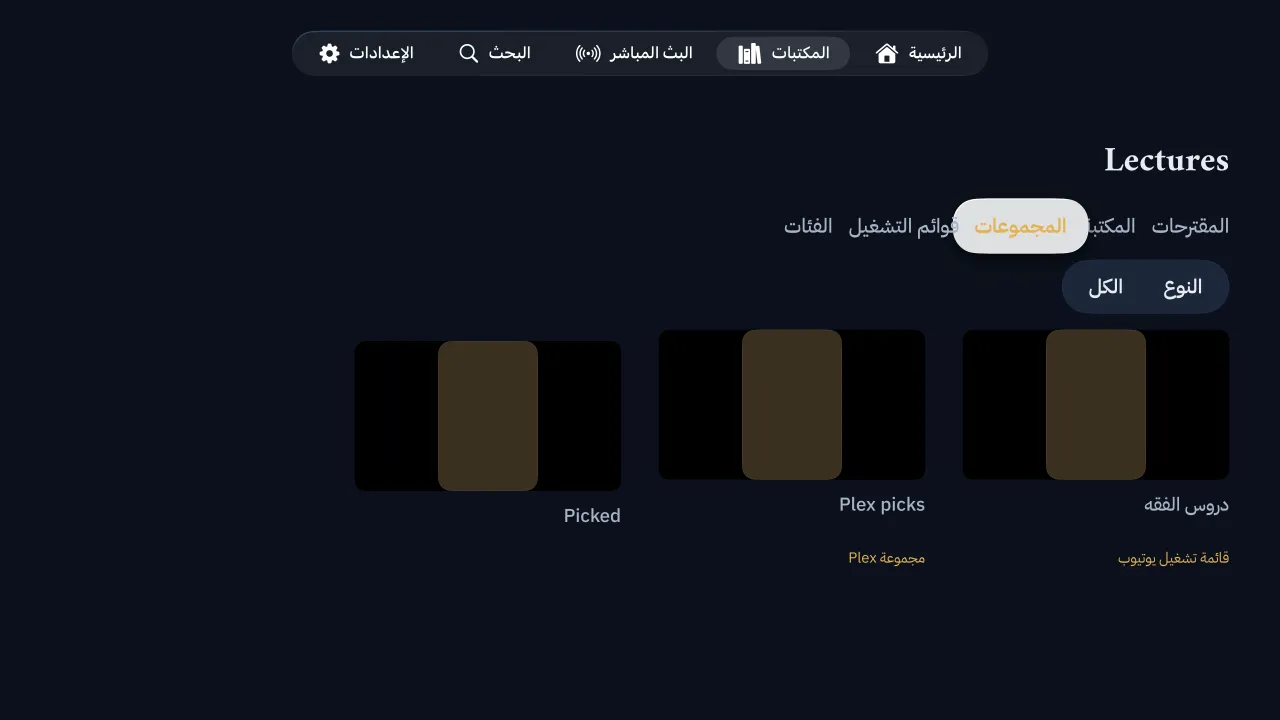
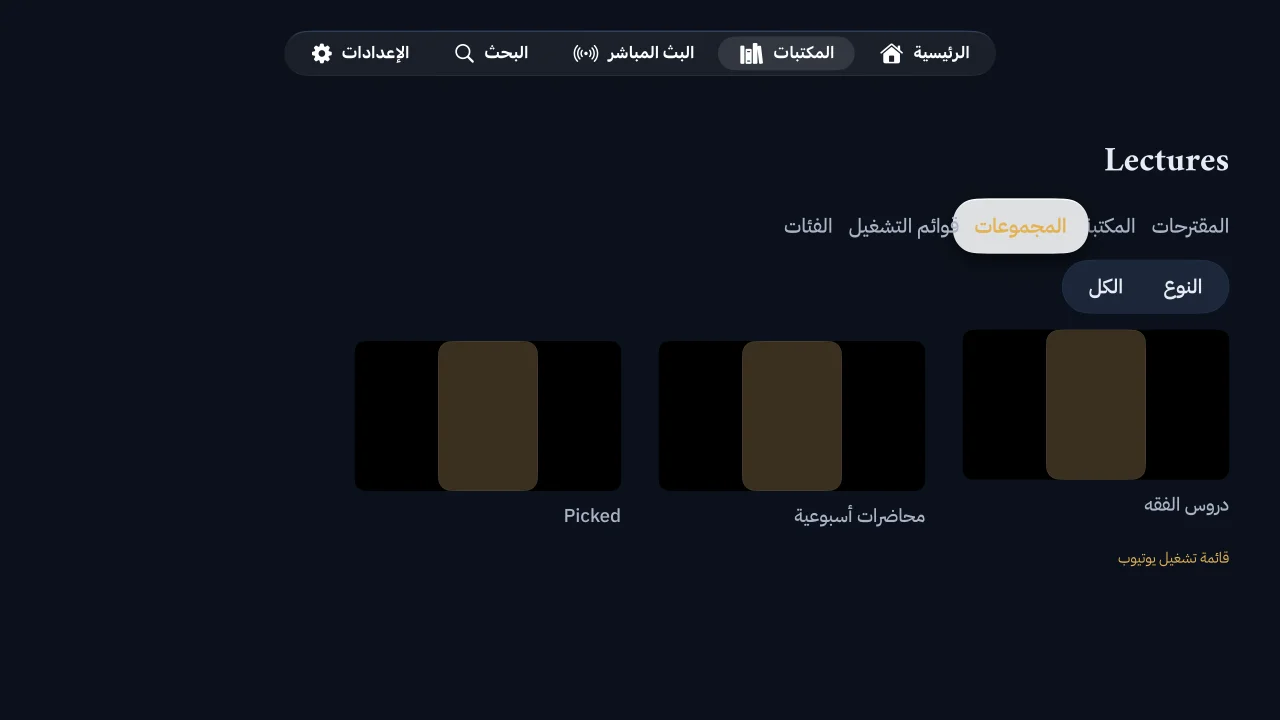
test: badge absence checked without the removed strings; Apple TV collections shot from CI
The Android checks call collectionBadge directly, and the Apple TV UI test
compares the channel card's text with the hand-made card's. The maktaba.dev
Apple TV shot is CI's tv-library-collections-ar from run 45414574687.

diff --git a/apps/tv/android/app/src/test/java/com/hamzalabs/maktaba/tv/LibraryViewTest.kt b/apps/tv/android/app/src/test/java/com/hamzalabs/maktaba/tv/LibraryViewTest.kt
@@ -15,7 +15,9 @@ import com.hamzalabs.maktaba.core.api.AuthTokens
 import com.hamzalabs.maktaba.core.queue.QueueSource
 import com.hamzalabs.maktaba.core.session.TokenStore
 import com.hamzalabs.maktaba.tv.data.TvApi
+import com.hamzalabs.maktaba.tv.data.TvCollection
 import com.hamzalabs.maktaba.tv.ui.screens.library.LibraryTabsScreen
+import com.hamzalabs.maktaba.tv.ui.screens.library.collectionBadge
 import com.hamzalabs.maktaba.tv.ui.screens.library.LocalTvNav
 import com.hamzalabs.maktaba.tv.ui.screens.library.PlaylistScreen
 import com.hamzalabs.maktaba.tv.ui.screens.library.SeriesScreen
@@ -30,7 +32,6 @@ import mockwebserver3.RecordedRequest
 import org.junit.After
 import org.junit.Assert.assertEquals
 import org.junit.Assert.assertNull
-import org.junit.Assert.assertFalse
 import org.junit.Assert.assertTrue
 import org.junit.Before
 import org.junit.Rule
@@ -143,13 +144,26 @@ class LibraryViewTest {
         compose.onNodeWithTag("tab-Collections").performSemanticsAction(SemanticsActions.RequestFocus)
         compose.waitUntil(5_000) { compose.waitForIdle(); shows("Weekly talks") }
         assertTrue("youtube badge", shows("YouTube playlist"))
-        // a channel's collection shows without a source badge, and no kind is From Plex
-        assertFalse("no channel badge", shows("YouTube channel"))
-        assertFalse("no plex badge", shows("Plex collection"))
         compose.onNodeWithTag("collections-kind").performSemanticsAction(SemanticsActions.OnClick)
         // the kind's own read, then its cards
         compose.waitUntil(5_000) { compose.waitForIdle(); urls.any { it.contains("kind=youtube") } }
         compose.waitUntil(5_000) { compose.waitForIdle(); shows("PL Lessons") && !shows("Weekly talks") }
+    }
+
+    @Test
+    fun aChannelsOrAPlexReadCollectionHasNoBadge() {
+        var channel: String? = "unset"
+        var plex: String? = "unset"
+        var playlist: String? = null
+        compose.setContent {
+            channel = collectionBadge(TvCollection("youtube", id = "y2", sourceKind = "youtube_channel"))
+            plex = collectionBadge(TvCollection("curated", id = "p1", sourceKind = "plex"))
+            playlist = collectionBadge(TvCollection("youtube", id = "y1", sourceKind = "youtube_playlist"))
+        }
+        compose.waitForIdle()
+        assertNull(channel)
+        assertNull(plex)
+        assertEquals("YouTube playlist", playlist)
     }
 
     @Test

diff --git a/apps/android/player/src/test/kotlin/com/hamzalabs/maktaba/player/libraries/QueueTabsTest.kt b/apps/android/player/src/test/kotlin/com/hamzalabs/maktaba/player/libraries/QueueTabsTest.kt
@@ -17,7 +17,7 @@ import mockwebserver3.MockWebServer
 import mockwebserver3.RecordedRequest
 import org.junit.After
 import org.junit.Assert.assertEquals
-import org.junit.Assert.assertFalse
+import org.junit.Assert.assertNull
 import org.junit.Assert.assertTrue
 import org.junit.Before
 import org.junit.Rule
@@ -97,8 +97,9 @@ class QueueTabsTest {
         compose.setContent { CollectionsList(c, "L1") }
         compose.waitUntil(5_000) { shows("PL lessons") }
         assertTrue(shows("YouTube playlist") && shows("Weekly talks"))
-        // a channel's collection shows without a source badge; no Plex collection badge is left
-        assertFalse(shows("YouTube channel") || shows("Plex collection"))
+        // a channel's collection shows without a source badge, and a Plex-read one has none either
+        assertNull(collectionBadge(PlayerCollection("youtube", "y2", sourceKind = "youtube_channel")))
+        assertNull(collectionBadge(PlayerCollection("curated", "p1", sourceKind = "plex")))
     }
 
     @Test

diff --git a/apps/tv/tvos/MaktabaTVUITests/TVLiveUITests.swift b/apps/tv/tvos/MaktabaTVUITests/TVLiveUITests.swift
@@ -343,7 +343,9 @@ final class TVLiveUITests: XCTestCase {
         XCTAssertTrue(element("collection.col-yt").waitForExistence(timeout: 20), "the collections")
         XCTAssertTrue(app.staticTexts["قائمة تشغيل يوتيوب"].exists, "the YouTube badge in Arabic")
         XCTAssertTrue(element("collection.col-ch").exists, "a channel's collection shows")
-        XCTAssertFalse(app.staticTexts["قناة يوتيوب"].exists, "a channel's collection has no source badge")
+        // a channel's collection has no source badge: no more text than the hand-made one's
+        XCTAssertEqual(element("collection.col-ch").staticTexts.count, element("collection.col-mine").staticTexts.count,
+                       "a channel's collection has no source badge")
         shot("tv-library-collections-ar")
     }
 
